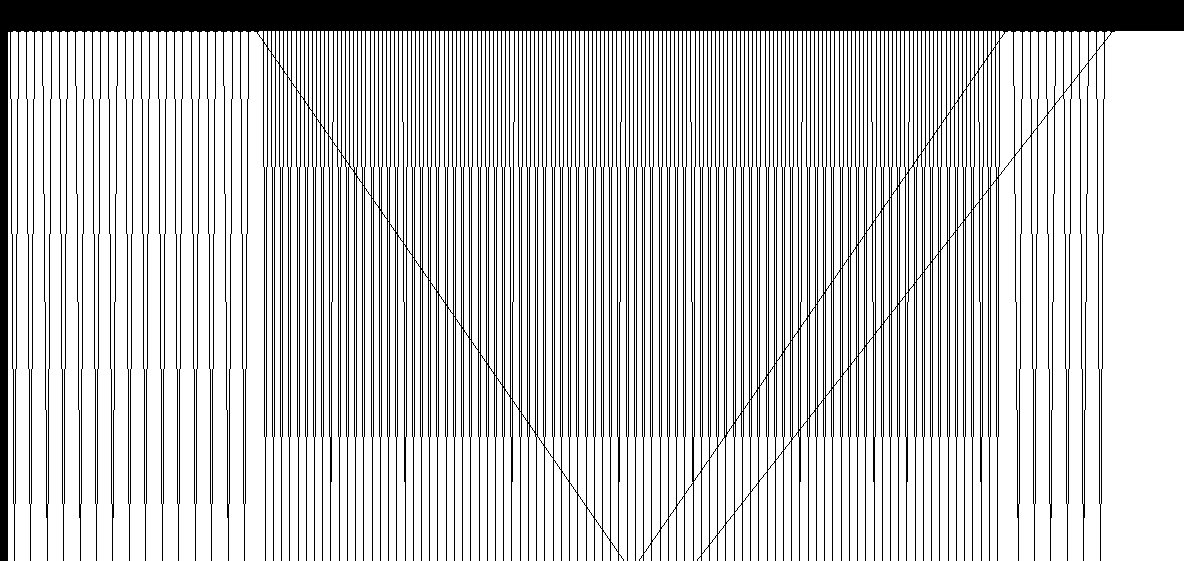
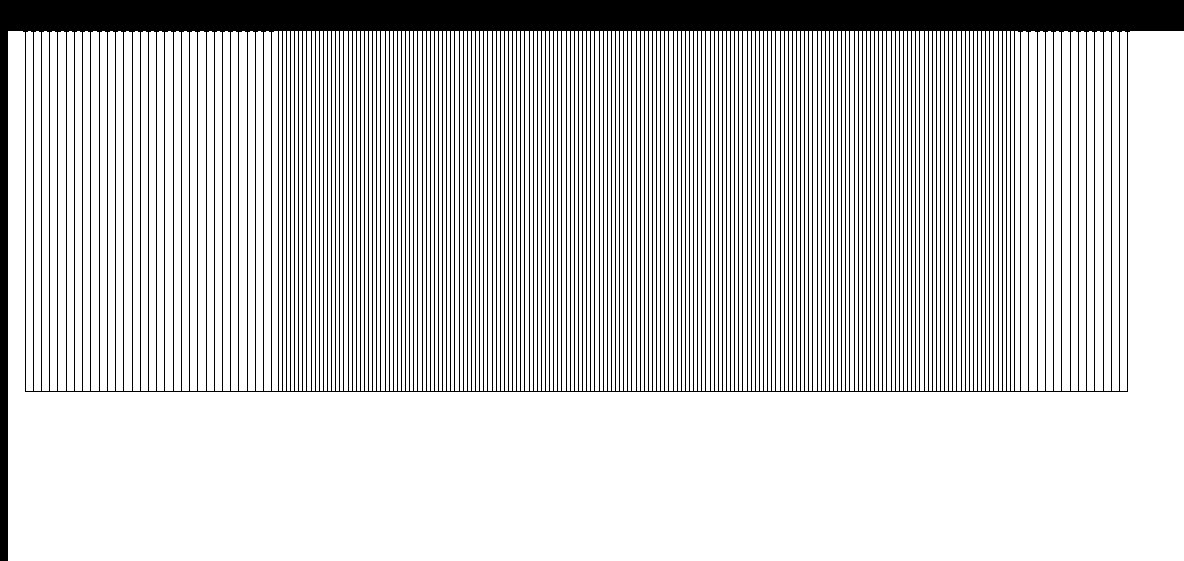
draw function improved

Changed region(s): [[0.0, 0.0606, 0.9375, 1.0]]

diff --git a/ClusterVisu/src/pixelvisu/seriation/Panel.java b/ClusterVisu/src/pixelvisu/seriation/Panel.java
@@ -61,8 +61,9 @@ public class Panel extends JPanel{
 	
 	public void paintCluster( Graphics2D g) {
 		// will only be called if cluser is defined
+		int depth = c.treeorder.getDepth();
 		System.out.println("Painting Cluster "+c.name);
-		double height_ratio = (0.9*h)/c.treeorder.branches.get(0).similarity;
+		double height_ratio = (0.6*h)/c.treeorder.branches.get(0).similarity;
 		double width_ratio = (0.6*w)/c.treeorder.length;
 		ArrayList<Node> plane = c.treeorder.branches;
 		for(int i = 0; i<100000;i++) {
@@ -73,14 +74,29 @@ public class Panel extends JPanel{
 			}}
 			
 			for(Node cc: plane) {for(Node c:cc.branches) {
-				
+				int top_off = 0;
+				int left_off=15;
 				if(!c.isLeaf) hold.add(c);
 				g.setColor(Color.black);
-				// DRAW BRANCHES Lines
-				g.drawLine((int)(cc.x_pos*width_ratio),
-						(int) (cc.similarity*height_ratio),
-						(int) (c.x_pos*width_ratio),
-						(int) (c.similarity*height_ratio));
+//				// DRAW BRANCHES Lines
+//				g.drawLine((int)(cc.x_pos*width_ratio),
+//						(int) (cc.similarity*height_ratio),
+//						(int) (c.x_pos*width_ratio),
+//						(int) (c.similarity*height_ratio));
+			
+				g.drawLine((int)(left_off+top_off+cc.x_pos*width_ratio),
+						(int) (top_off+cc.similarity*height_ratio),
+						(int) (left_off+top_off+c.x_pos*width_ratio),
+						(int) (top_off+cc.similarity*height_ratio));
+				g.drawLine((int)(left_off+top_off+c.x_pos*width_ratio),
+						(int) (top_off+cc.similarity*height_ratio),
+						(int) (left_off+top_off+c.x_pos*width_ratio),
+						(int) (top_off+c.similarity*height_ratio));
+				if(c.isLeaf)
+					g.drawLine((int)(left_off+top_off+c.x_pos*width_ratio),
+						(int) (top_off+cc.similarity*height_ratio),
+						(int) (left_off+top_off+c.x_pos*width_ratio),
+						(int) (0));
 				
 			}
 			
@@ -98,15 +114,16 @@ public class Panel extends JPanel{
 //			g.setColor(Color.white);
 //			g.fillRect((int) (smallx*width_ratio), -10,
 //					(int)((bigx-smallx)*width_ratio), 
-//					(int)(cc.similarity*height_ratio)+3);
+//					(int)(cc.similarity*height_ratio)+3+2*depth);
 //
 //			g.setColor(Color.black);
 //			g.drawRect((int) (smallx*width_ratio), -10,
 //					(int)((bigx-smallx)*width_ratio), 
-//					(int)(cc.similarity*height_ratio)+3);
+//					(int)(cc.similarity*height_ratio)+3+2*depth);
 //			
-			}
 			
+			}
+			depth--;
 			plane =hold;
 			if(lastleaf) {
 

diff --git a/ClusterVisu/src/pixelvisu/seriation/ClusterMakerSeriation.java b/ClusterVisu/src/pixelvisu/seriation/ClusterMakerSeriation.java
@@ -7,6 +7,7 @@ import java.awt.image.BufferedImage;
 import java.awt.image.DataBufferInt;
 import java.awt.image.DataBufferByte;
 import java.awt.image.RenderedImage;
+import java.io.BufferedInputStream;
 import java.io.File;
 import java.io.FileInputStream;
 import java.io.FileNotFoundException;
@@ -29,7 +30,6 @@ public class ClusterMakerSeriation extends JFrame implements Runnable {
 	public byte[]pixels_b;
 	public VisuSeriation visu; 
 	public Data data;
-
 	public Color bg_color = Color.WHITE;
 	
 	public ClusterMakerSeriation(Data d, String path) throws IOException {
@@ -106,13 +106,16 @@ public class ClusterMakerSeriation extends JFrame implements Runnable {
 		
 		Data d;
 		
-		try {
-			d = serializeDataIn("save/data/data");
-		}
-		catch(Exception e) {
-			d = new Data(path);
-			serializeDataOut("save/data/data",d);
-		}
+//		try {
+//			d = serializeDataIn("save/data/data");
+//		}
+//		catch(Exception e) {
+//			d = new Data(path);
+//			serializeDataOut("save/data/data",d);
+//		}
+		
+
+		d = new Data(path);
 		ClusterMakerSeriation clum = new ClusterMakerSeriation(d, path);
 	}
 	
@@ -129,9 +132,10 @@ public class ClusterMakerSeriation extends JFrame implements Runnable {
 
 	public static Data serializeDataIn(String savepath) throws IOException, ClassNotFoundException {
 		System.out.println("loading full data");
-		FileInputStream fin = new FileInputStream(savepath);
-		ObjectInputStream ois = new ObjectInputStream(fin);
-		Data loadRoot = (Data) ois.readObject();
+		FileInputStream fin = new FileInputStream(savepath);//System.out.println("file input stream done");
+		BufferedInputStream bis = new BufferedInputStream(fin);
+		ObjectInputStream ois = new ObjectInputStream(bis);//System.out.println("object input stream done");
+		Data loadRoot = (Data) ois.readObject();System.out.println("data transfer done");
 		ois.close();
 		return loadRoot;
 	}

diff --git a/ClusterVisu/src/pixelvisu/seriation/Cluster.java b/ClusterVisu/src/pixelvisu/seriation/Cluster.java
@@ -1,5 +1,6 @@
 package pixelvisu.seriation;
 
+import java.io.BufferedInputStream;
 import java.io.FileInputStream;
 import java.io.FileOutputStream;
 import java.io.IOException;
@@ -33,7 +34,7 @@ public class Cluster implements Serializable {
 		
 		flat = tree.getFlatBranchesDepth();
 
-		System.out.println("Cluster size:" + tree.branches.size() + " and Size" + flat.getDepth());
+		System.out.println("Clusterized: "+name+" : size:" + tree.branches.size() + " and Size" + flat.getDepth());
 //		tree.printClusterSim();
 		try {
 			treeorder = serializeDataIn("save/trees/"+name+"_o");
@@ -42,7 +43,7 @@ public class Cluster implements Serializable {
 			treeorder = new Node(flat, clustering, link, sim);
 			serializeDataOut("save/trees/"+name+"_o",treeorder);
 		}
-		System.out.println("Ordered Tree");
+//		System.out.println("Ordered Tree");
 	}
 
 	public void makeSections(int maxsim) {
@@ -130,7 +131,8 @@ public class Cluster implements Serializable {
 
 	public static Node serializeDataIn(String savepath) throws IOException, ClassNotFoundException {
 		FileInputStream fin = new FileInputStream(savepath);
-		ObjectInputStream ois = new ObjectInputStream(fin);
+		BufferedInputStream bis = new BufferedInputStream(fin);
+		ObjectInputStream ois = new ObjectInputStream(bis);
 		Node loadRoot = (Node) ois.readObject();
 		ois.close();
 		return loadRoot;
